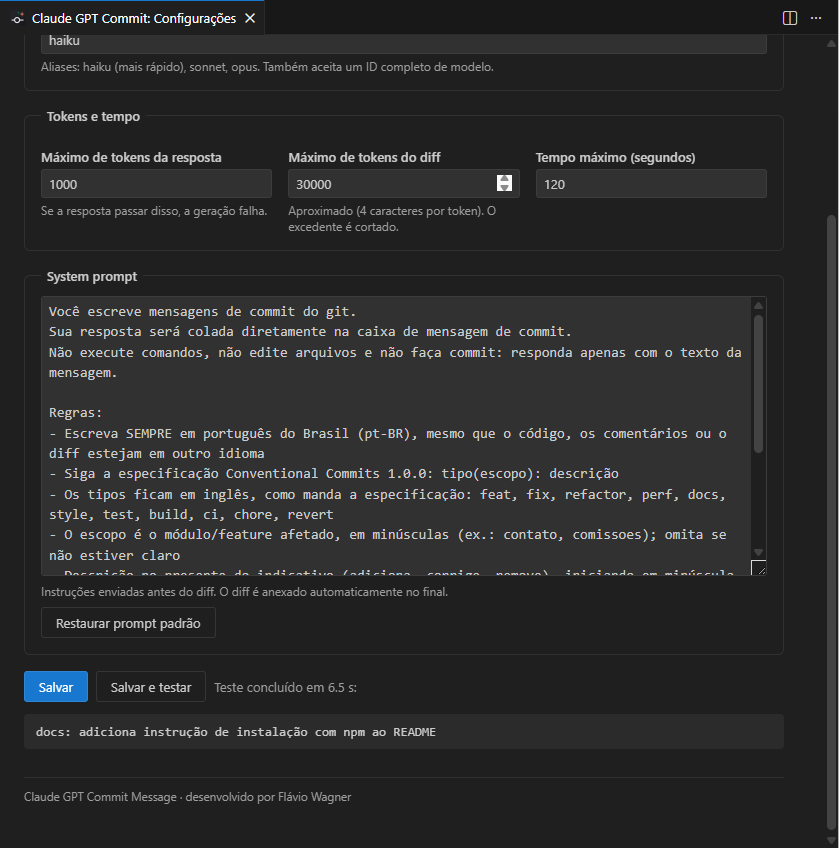
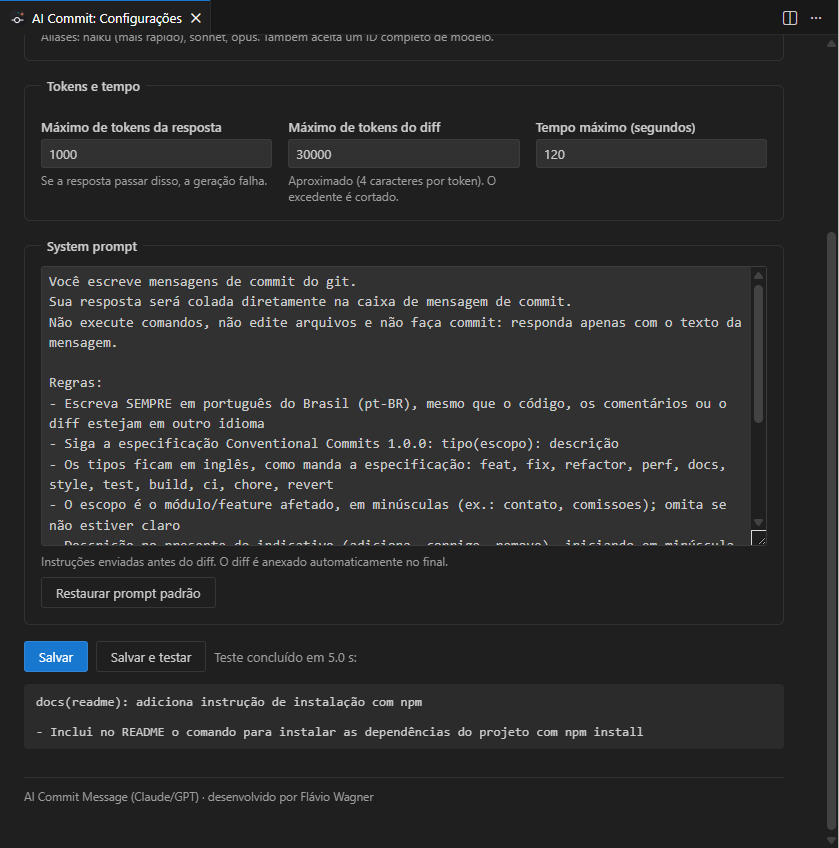
fix: descarta introdução da IA antes da mensagem de commit
- A resposta passa a começar no cabeçalho tipo(escopo): descrição, mesmo quando o modelo escreve um texto de introdução antes
- Regrava GIFs e prints da documentação com o nome AI Commit Message (Claude/GPT)
- Versão 1.2.1 e CHANGELOG atualizado

diff --git a/extension.js b/extension.js
@@ -126,9 +126,16 @@ function clean(text) {
 		.join('\n')
 		.replace(/`/g, '')
 		.trim();
-	// Descarta uma eventual linha de introdução terminada em ":" (ex.: "Commit message:").
 	const lines = t.split(/\r?\n/);
-	if (lines.length > 1 && /:\s*$/.test(lines[0]) && !/^\w+(\([^)]*\))?!?:/.test(lines[0])) {
+	// Se houver um cabeçalho Conventional Commits (tipo(escopo)!: descrição), descarta
+	// qualquer texto de introdução que o modelo tenha escrito antes dele.
+	const header = lines.findIndex(l => /^[a-z]+(\([^)\s]*\))?!?: \S/i.test(l.trim()));
+	if (header > 0) {
+		return lines.slice(header).join('\n').trim();
+	}
+	// Sem cabeçalho reconhecível (prompt personalizado): descarta só uma linha de
+	// introdução terminada em ":" (ex.: "Commit message:").
+	if (header < 0 && lines.length > 1 && /:\s*$/.test(lines[0])) {
 		t = lines.slice(1).join('\n').trim();
 	}
 	return t;

diff --git a/CHANGELOG.md b/CHANGELOG.md
@@ -1,5 +1,10 @@
 # Changelog
 
+## 1.2.1
+
+- Correção: textos de introdução que a IA escreve antes da mensagem (ex.: "Using the commit-message format…") agora são descartados; a mensagem começa sempre no cabeçalho tipo(escopo): descrição.
+- GIFs e prints da documentação regravados com o nome novo.
+
 ## 1.2.0
 
 - Novo nome: **AI Commit Message (Claude/GPT)**.
